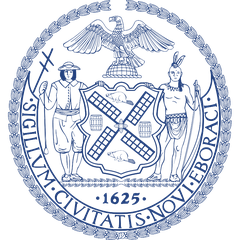
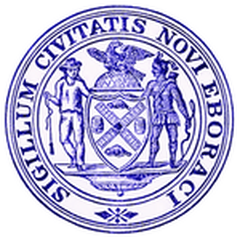
1894 map: the old City of New York seal on New York County

diff --git a/ballotmeasures/1894/index.html b/ballotmeasures/1894/index.html
@@ -163,10 +163,10 @@ const OV=[];
 P.forEach(p=>{const o=new mapkit.PolygonOverlay(rings(p.g),{style:Sty(p,false,p.joined===false)});o.data={p,out:p.joined===false};OV.push(o);
   if(p.g2){const o2=new mapkit.PolygonOverlay(rings(p.g2),{style:Sty(p,false,true)});o2.data={p,out:true};OV.push(o2)}});
 map.addOverlays(OV);
-const SEAL={ny:'ny',kings:'kings',queens:'queens',richmond:'richmond'}; // the seals we have: City of New York, City of Brooklyn, and today's Queens and Staten Island
+const SEAL={ny:'ny',kings:'kings',queens:'queens',richmond:'richmond'}; // the seals we have: the old City of New York (Manhattan), City of Brooklyn, and today's Queens and Staten Island
 const LB=[];
 const AT={ny:[40.765,-74.02],kings:[40.615,-73.945],queens:[40.735,-73.79],westchester:[40.855,-73.825]}; // where each seal and name sits so they do not cover each other
-P.forEach(p=>[[p.lab,p.joined===false],[p.lab2,true]].forEach(([l,o])=>{if(!l)return;const at=(l===p.lab&&AT[p.id])||l.c;const a=new mapkit.Annotation(new mapkit.Coordinate(at[0],at[1]),()=>{const el=document.createElement('div');el.className='ml'+(o?' gone':'');const sl=SEAL[p.id];el.className+=sl?'':' noseal';el.innerHTML=(sl?`<img src="seals/${sl}.png" alt="">`:'')+`<span>${esc(l.t)}</span>`;el.title=l.t+' \u00b7 '+l.s;el.addEventListener('click',ev=>{ev.stopPropagation();const b=document.querySelector(`#places button[data-p="${p.id}"]`);if(b)b.click()});el.dataset.p=p.id;LB.push(el);return el},{calloutEnabled:false,displayPriority:1000,collisionMode:(mapkit.Annotation.CollisionMode&&mapkit.Annotation.CollisionMode.None)||undefined});LB.push(a);map.addAnnotation(a)}));map.showItems(OV,{animate:false,padding:new mapkit.Padding(20,20,20,20)});
+P.forEach(p=>[[p.lab,p.joined===false],[p.lab2,true]].forEach(([l,o])=>{if(!l)return;const at=(l===p.lab&&AT[p.id])||l.c;const a=new mapkit.Annotation(new mapkit.Coordinate(at[0],at[1]),()=>{const el=document.createElement('div');el.className='ml'+(o?' gone':'');const sl=SEAL[p.id];el.className+=sl?'':' noseal';el.innerHTML=(sl?`<img src="seals/${sl}.png?v=2" alt="">`:'')+`<span>${esc(l.t)}</span>`;el.title=l.t+' \u00b7 '+l.s;el.addEventListener('click',ev=>{ev.stopPropagation();const b=document.querySelector(`#places button[data-p="${p.id}"]`);if(b)b.click()});el.dataset.p=p.id;LB.push(el);return el},{calloutEnabled:false,displayPriority:1000,collisionMode:(mapkit.Annotation.CollisionMode&&mapkit.Annotation.CollisionMode.None)||undefined});LB.push(a);map.addAnnotation(a)}));map.showItems(OV,{animate:false,padding:new mapkit.Padding(20,20,20,20)});
 document.getElementById('legend').innerHTML='<span><b>Share voting for</b>:</span>'+[[80,'80%+'],[70,'70 to 80'],[60,'60 to 70'],[50,'50 to 60'],[40,'40 to 50'],[30,'30 to 40'],[0,'under 30']].map(([v,t])=>`<span><span class="sw" style="background:${col(v)}"></span>${t}</span>`).join('')+'<span><span class="sw" style="background:#fff;border:1.5px dashed #6b7280"></span>Stayed out of the new city</span>';
 let hi=null;
 function select(p,fly){document.querySelectorAll('.ml').forEach(el=>el.classList.toggle('hi',el.dataset.p===p.id));OV.forEach(o=>o.style=Sty(o.data.p,o.data.p===p,o.data.out));

diff --git a/sw.js b/sw.js
@@ -1,5 +1,5 @@
 // CB6 & Beyond — Service Worker
-const CACHE_VERSION = 'cb6-v66666666666666976-1794353040';
+const CACHE_VERSION = 'cb6-v66666666666666977-1794353040';
 const CORE_ASSETS = [
   '/',
   '/index.html',
